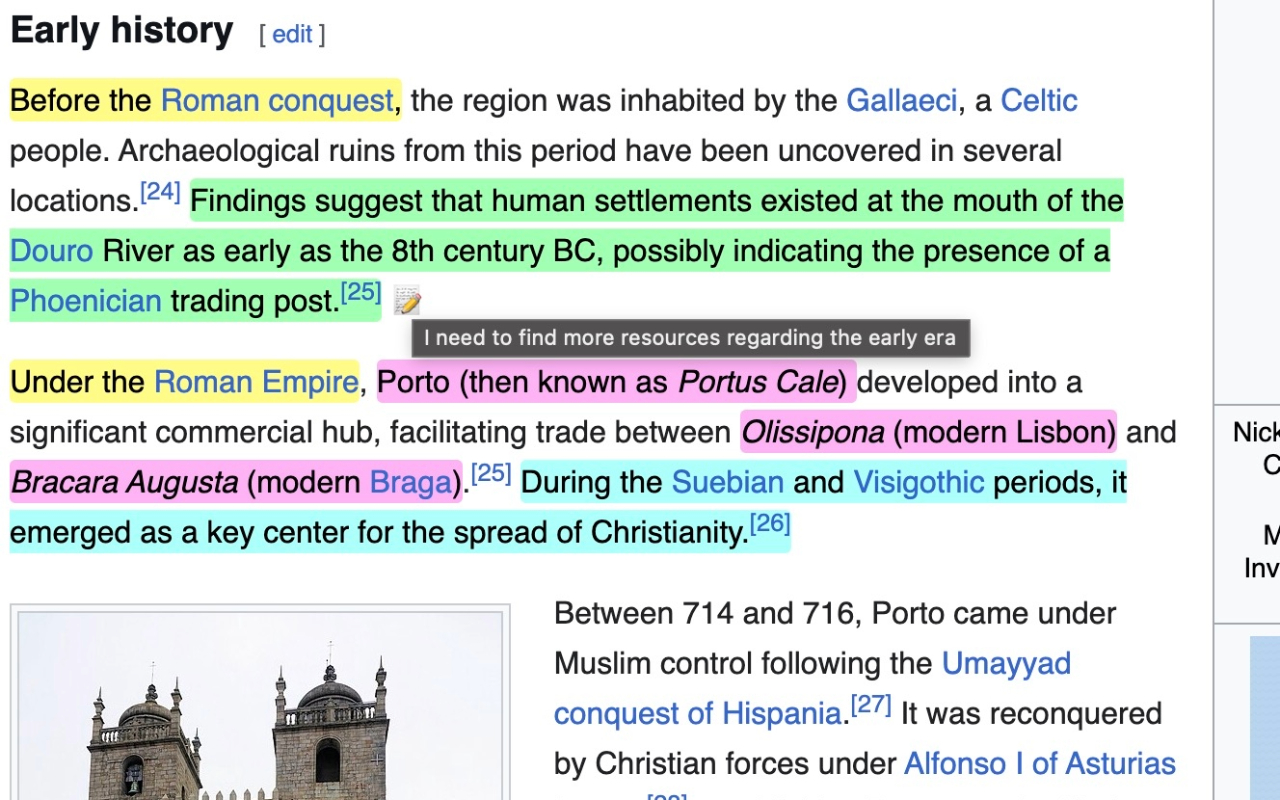
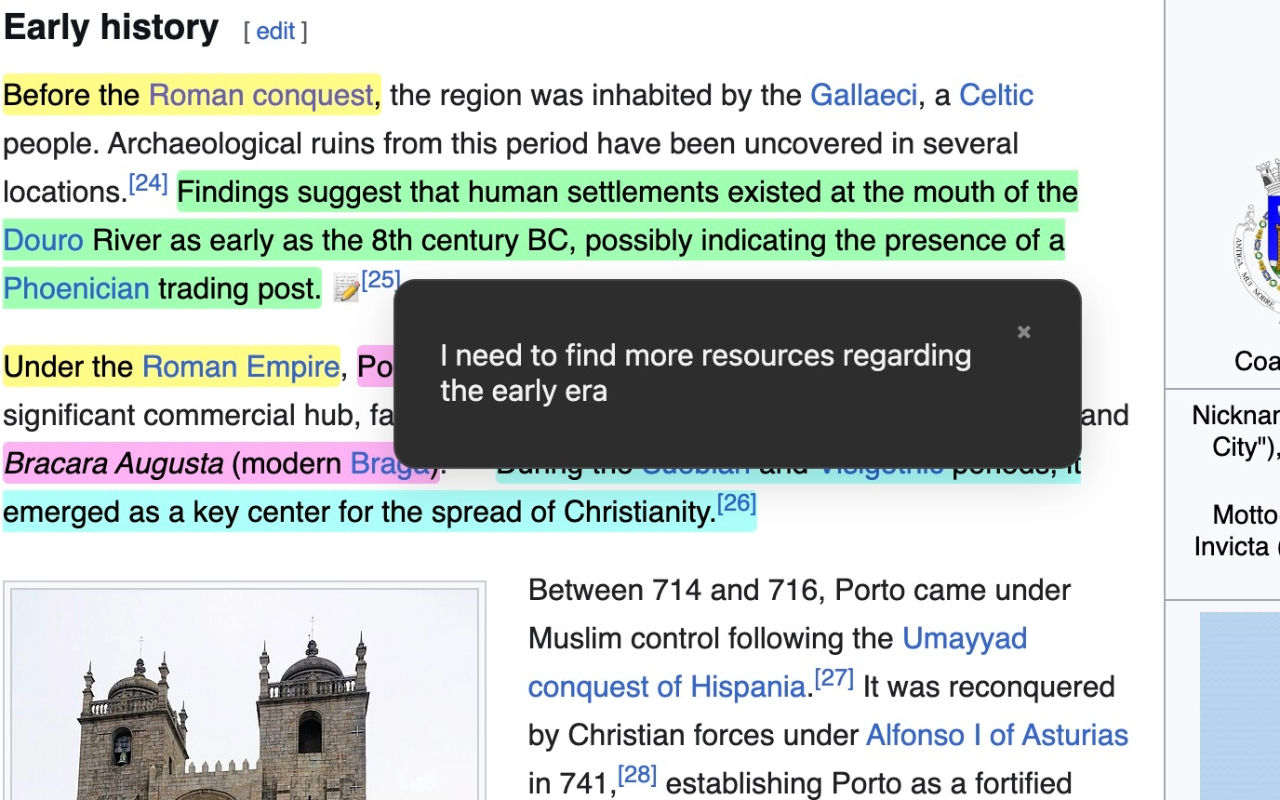
improve comment view dialog

diff --git a/content.js b/content.js
@@ -43,6 +43,48 @@ style.textContent = `
   background-color: rgba(0, 0, 0, 0.4);
 }
 
+/* View-only comment popup container */
+.glowmarkr-view-popup-container {
+  position: fixed;
+  top: 0;
+  left: 0;
+  width: 100%;
+  height: 100%;
+  z-index: 9999;
+  display: flex;
+  justify-content: center;
+  align-items: center;
+  background-color: transparent;
+  pointer-events: none; /* Allow clicks to pass through the container */
+}
+
+.glowmarkr-view-popup-container .glowmarkr-popup {
+  pointer-events: auto; /* But not through the popup itself */
+}
+
+.glowmarkr-popup-close {
+  position: absolute;
+  top: 10px;
+  right: 10px;
+  background: none;
+  border: none;
+  font-size: 20px;
+  cursor: pointer;
+  color: #888;
+}
+
+.glowmarkr-popup-close:hover {
+  color: #000;
+}
+
+.glowmarkr-popup-comment-display {
+  white-space: pre-wrap; /* Respects newlines and spaces */
+  word-wrap: break-word;
+  max-height: 400px;
+  overflow-y: auto;
+  padding-right: 15px; /* For scrollbar */
+}
+
 /* The popup dialog itself */
 .glowmarkr-popup {
   width: 320px;
@@ -406,7 +448,15 @@ function addCommentIcon(highlightSpan, comment) {
     icon.textContent = "📝";
     highlightSpan.insertAdjacentElement("afterend", icon);
   }
-  icon.title = comment;
+  
+  // Remove the old title-based hover effect
+  icon.title = '';
+
+  // Add a click listener to show the popup
+  icon.onclick = (e) => {
+    e.stopPropagation();
+    showViewCommentPopup(comment);
+  };
 }
 
 function showCommentPopup(highlightSpan) {
@@ -477,6 +527,76 @@ function showCommentPopup(highlightSpan) {
       isDragging = false;
       popup.style.cursor = 'grab';
     });
+  });
+}
+
+function showViewCommentPopup(comment) {
+  // Create a container for the popup
+  const container = document.createElement("div");
+  container.className = "glowmarkr-view-popup-container";
+
+  // Create the popup itself
+  const popup = document.createElement("div");
+  popup.className = "glowmarkr-popup";
+  popup.style.position = 'absolute'; // Needed for dragging
+
+  // Create a close button
+  const closeButton = document.createElement("button");
+  closeButton.className = "glowmarkr-popup-close";
+  closeButton.innerHTML = "&times;";
+  closeButton.onclick = () => container.remove();
+
+  // Create the comment display area
+  const commentDisplay = document.createElement("p");
+  commentDisplay.className = "glowmarkr-popup-comment-display";
+  commentDisplay.textContent = comment;
+
+  // Assemble the popup
+  popup.appendChild(closeButton);
+  popup.appendChild(commentDisplay);
+  container.appendChild(popup);
+  document.body.appendChild(container);
+
+  // Close popup on Escape key
+  const handleKeyDown = (e) => {
+    if (e.key === "Escape") {
+      container.remove();
+      document.removeEventListener('keydown', handleKeyDown);
+    }
+  };
+  document.addEventListener('keydown', handleKeyDown);
+
+  // Make the popup draggable
+  let isDragging = false;
+  let offsetX, offsetY;
+
+  popup.addEventListener('mousedown', (e) => {
+    // Prevent dragging when clicking on the close button or scrollbar
+    if (e.target === closeButton || e.target === commentDisplay && commentDisplay.scrollHeight > commentDisplay.clientHeight) {
+      return;
+    }
+    isDragging = true;
+    const rect = popup.getBoundingClientRect();
+    offsetX = e.clientX - rect.left;
+    offsetY = e.clientY - rect.top;
+    popup.style.cursor = 'grabbing';
+    // Set a fixed position when dragging starts
+    popup.style.left = rect.left + 'px';
+    popup.style.top = rect.top + 'px';
+  });
+
+  document.addEventListener('mousemove', (e) => {
+    if (!isDragging) return;
+    e.preventDefault(); // Prevent text selection while dragging
+    popup.style.left = (e.clientX - offsetX) + 'px';
+    popup.style.top = (e.clientY - offsetY) + 'px';
+  });
+
+  document.addEventListener('mouseup', () => {
+    if (isDragging) {
+      isDragging = false;
+      popup.style.cursor = 'grab';
+    }
   });
 }
 

diff --git a/README.md b/README.md
@@ -26,7 +26,7 @@ GlowMarkr lets you highlight text on any webpage, and it magically remembers you
 1.  **Right-click on a highlight:** Open the context menu.
 2.  **Click "Comment 📝":** A popup will appear.
 3.  **Add your note:** Type your comment and click "Save". A pencil icon will appear next to the highlight.
-4.  **View your comment:** Hover over the pencil icon to see your note! 💬
+4.  **View your comment:** Click on the pencil icon to see your note! 💬
 <div align="left">
   <img src="./media/GlowMarkr-comment.jpg" alt="GlowMarkr Mark" width="400"/>
 </div>
